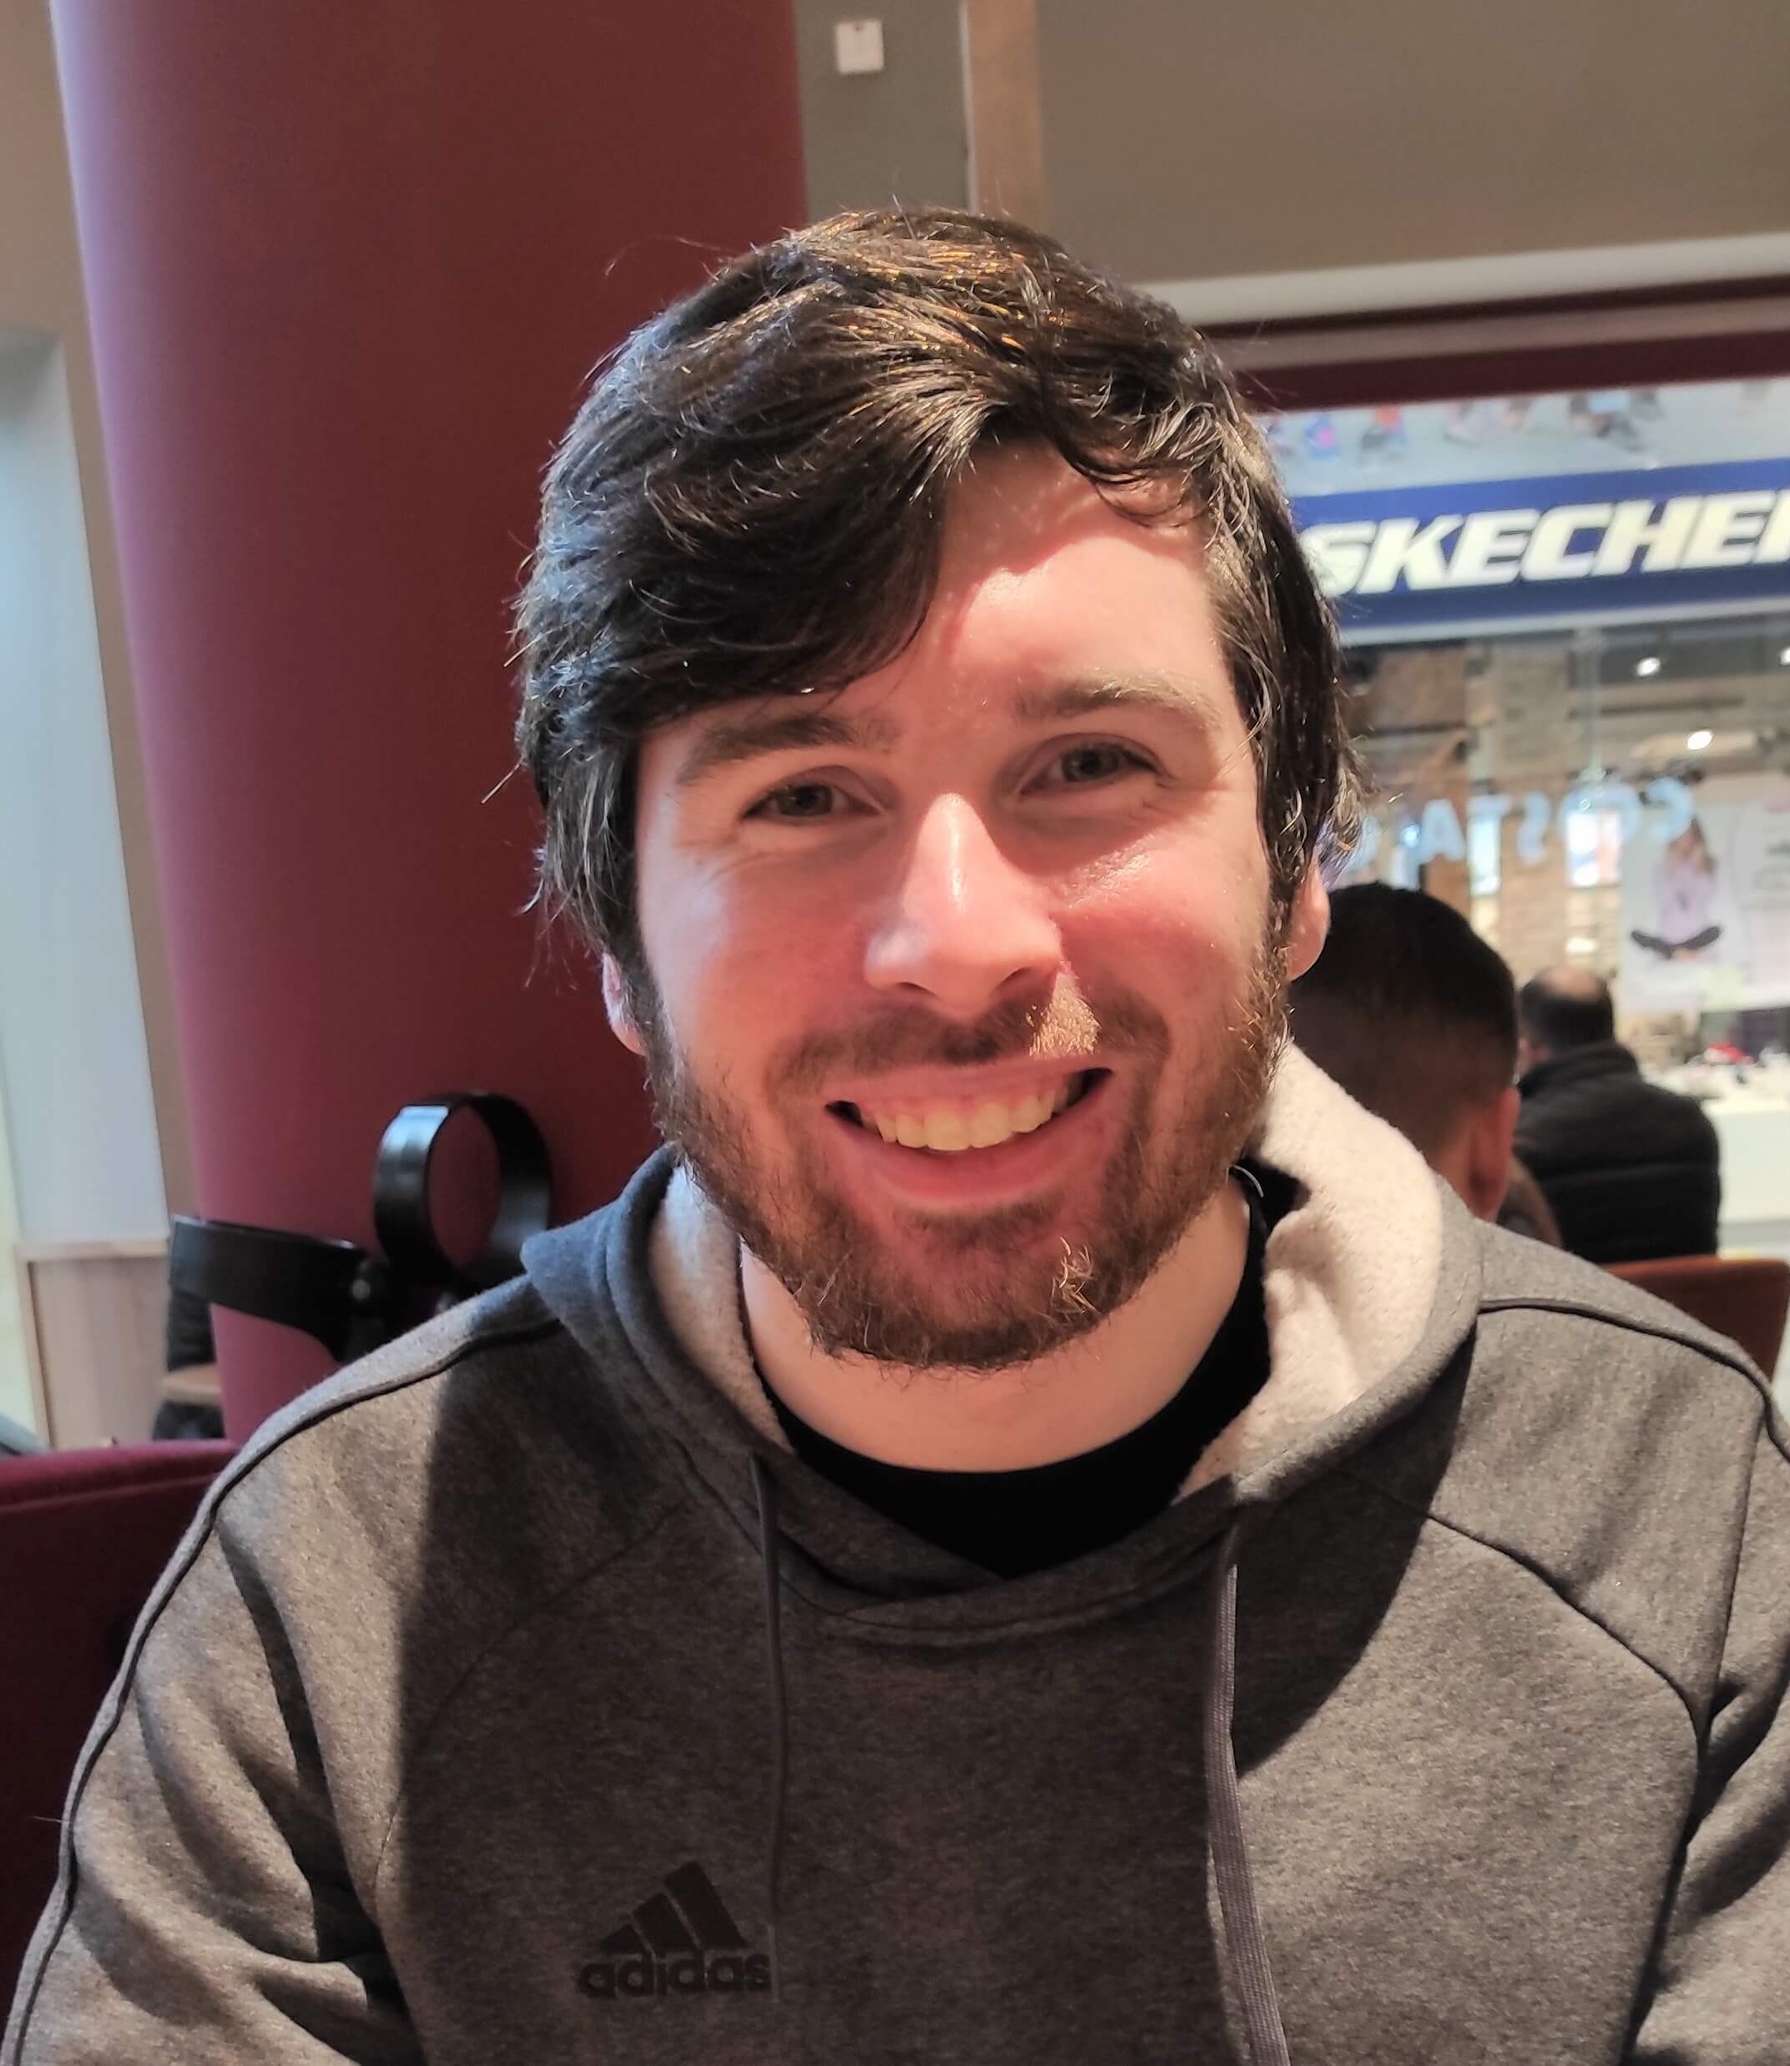
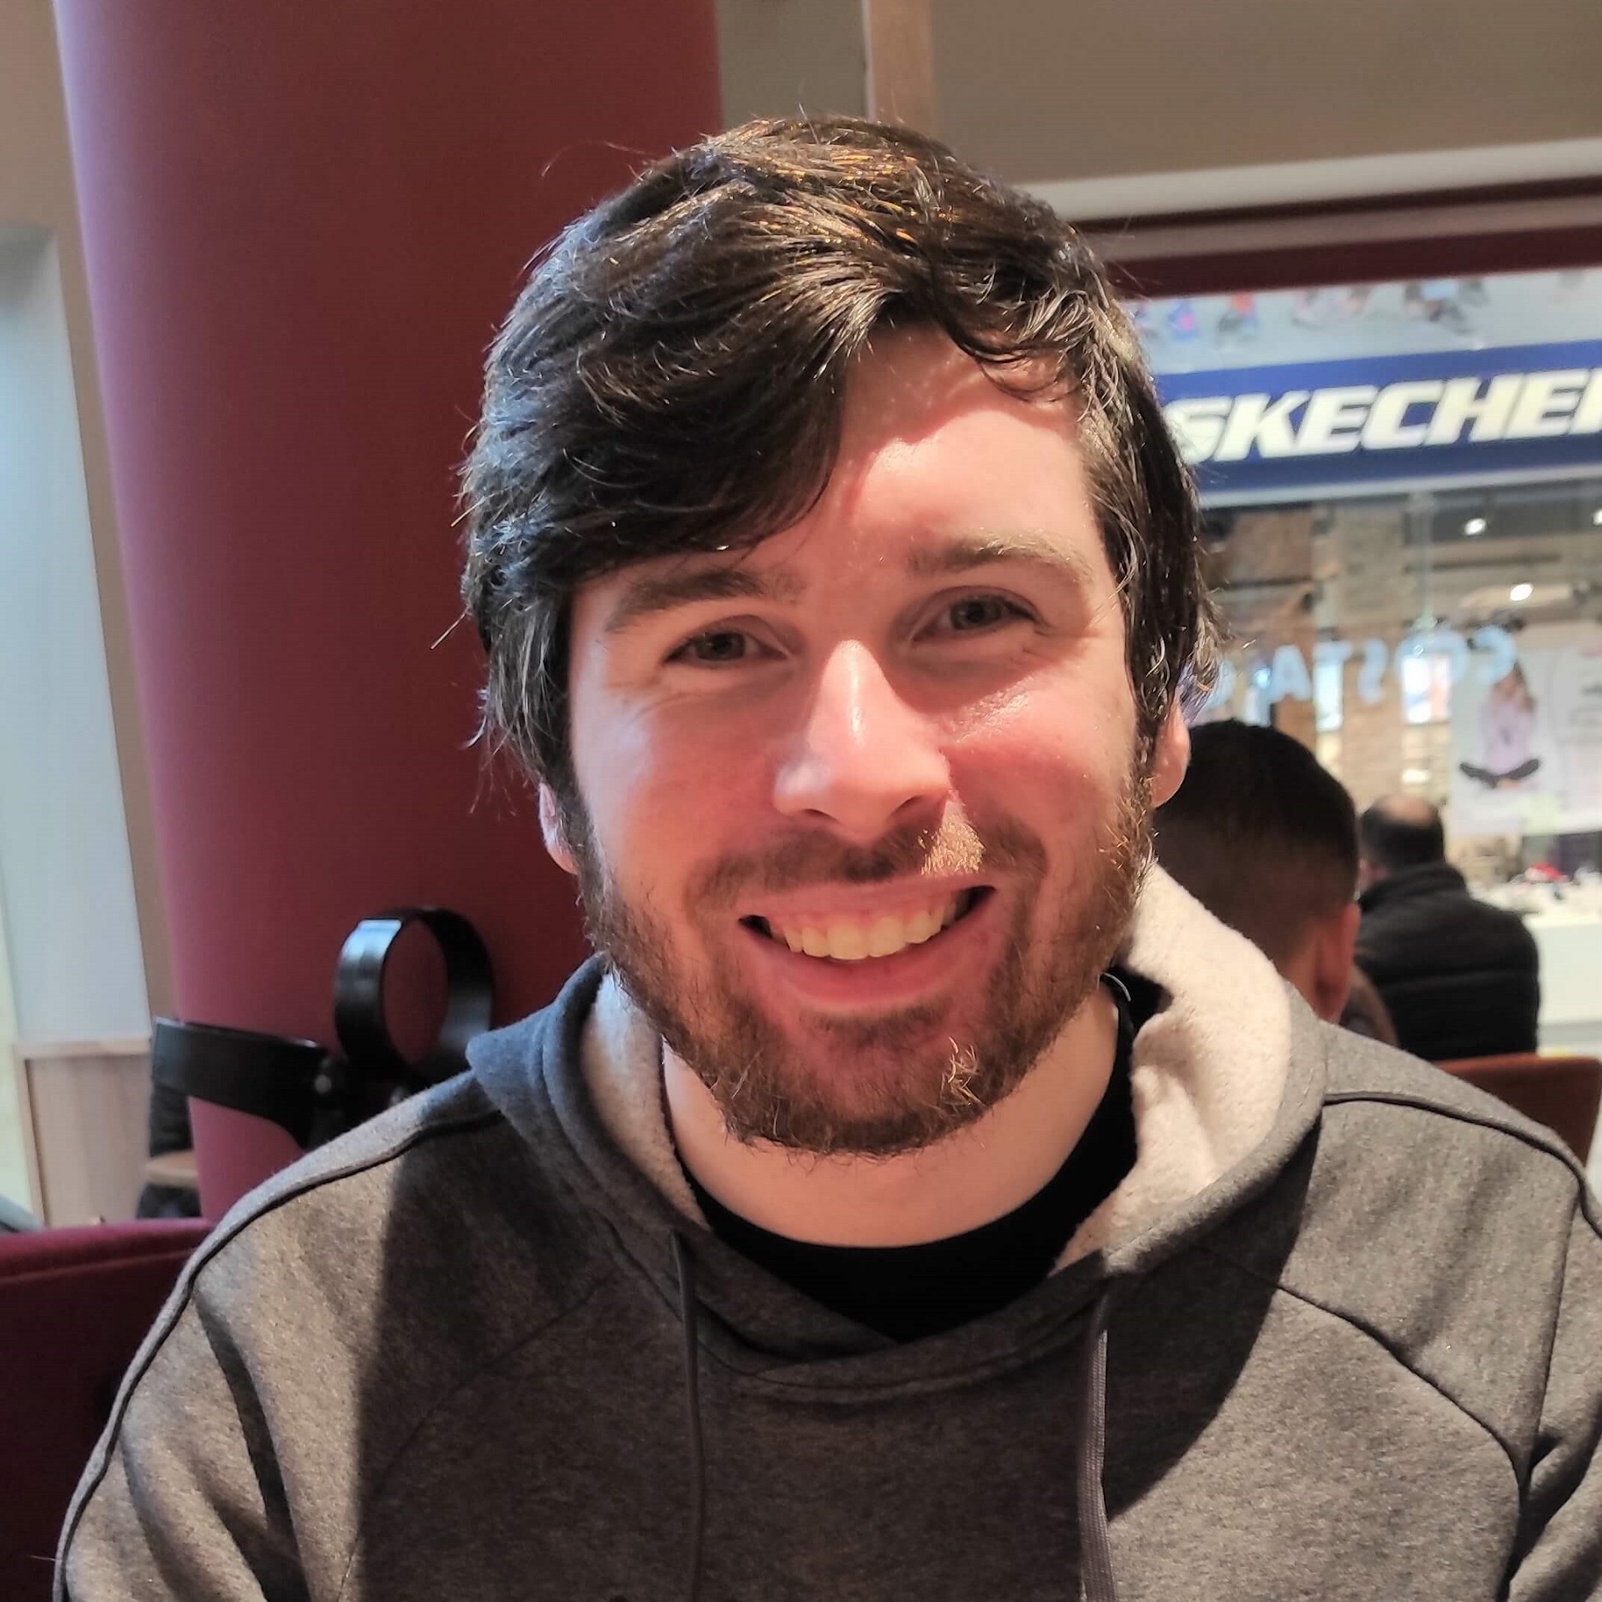
Resize bio image and remove other images

diff --git a/frontend/src/components/Bio/Bio.module.css b/frontend/src/components/Bio/Bio.module.css
@@ -10,6 +10,6 @@
 
 .bio__picture {
   max-width: 28rem;
-  border-radius: 5rem;
+  border-radius: 50rem;
   box-shadow: 0 0 1.2rem var(--primary-color);
 }
